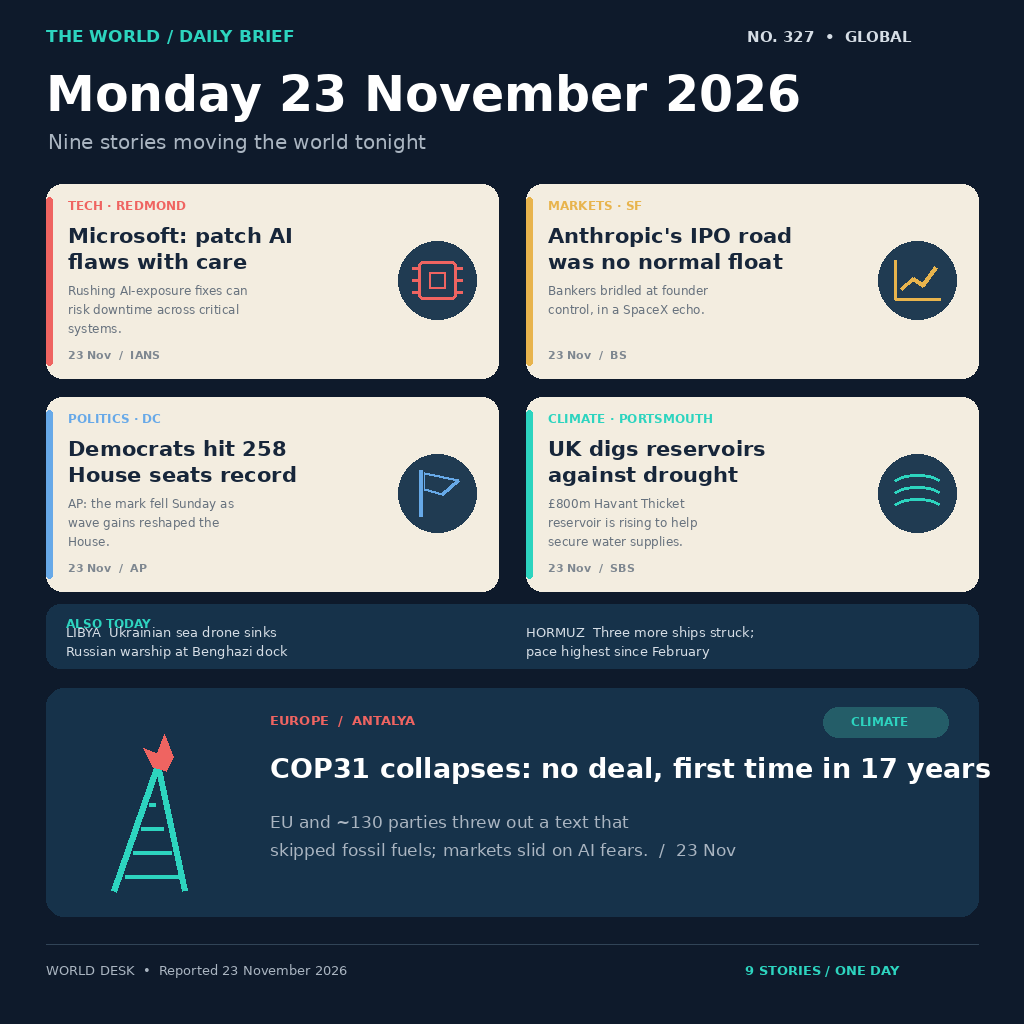
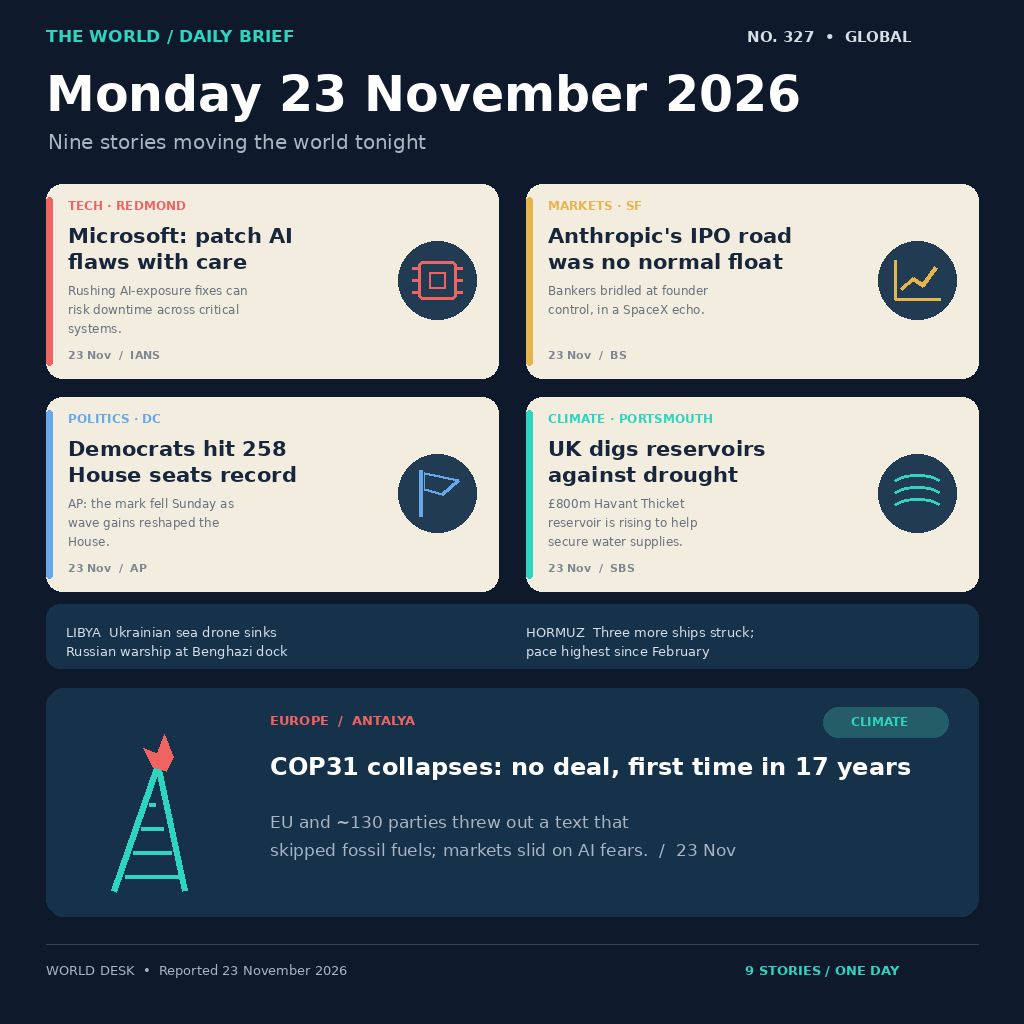
news r6 layout fixes

Changed region(s): [[0.2812, 0.7188, 0.9688, 0.7812], [0.0625, 0.5938, 0.1562, 0.625]]

diff --git a/main.py b/main.py
@@ -77,7 +77,6 @@ for x, y, accent, kicker, title, body, credit, glyph in cards:
 
 # A one-line ticker carries four more briefs between the cards and the lead.
 d.rounded_rectangle((46, 604, 978, 668), radius=14, fill="#16324a")
-text(66, 616, "ALSO TODAY", 12, TEAL, True)
 tick = [
     (66, "LIBYA  Ukrainian sea drone sinks", "Russian warship at Benghazi dock"),
     (526, "HORMUZ  Three more ships struck;", "pace highest since February"),
@@ -91,7 +90,7 @@ d.rounded_rectangle((46, 688, 978, 916), radius=18, fill="#16324a")
 text(270, 712, "EUROPE  /  ANTALYA", 13, "#ef6461", True)
 d.rounded_rectangle((823, 707, 948, 737), radius=15, fill="#245d68")
 text(851, 714, "CLIMATE", 12, TEAL, True)
-text(270, 752, "COP31 collapses: no deal, first time in 17 years", 27, "#ffffff", True)
+text(270, 752, "COP31 collapses: no deal, first time in 17 years", 24, "#ffffff", True)
 text(270, 812, "EU and ~130 parties threw out a text that", 17, GRAY)
 text(270, 840, "skipped fossil fuels; markets slid on AI fears.  /  23 Nov", 17, GRAY)
 # A ladder beside a small flame marks the summit story.
